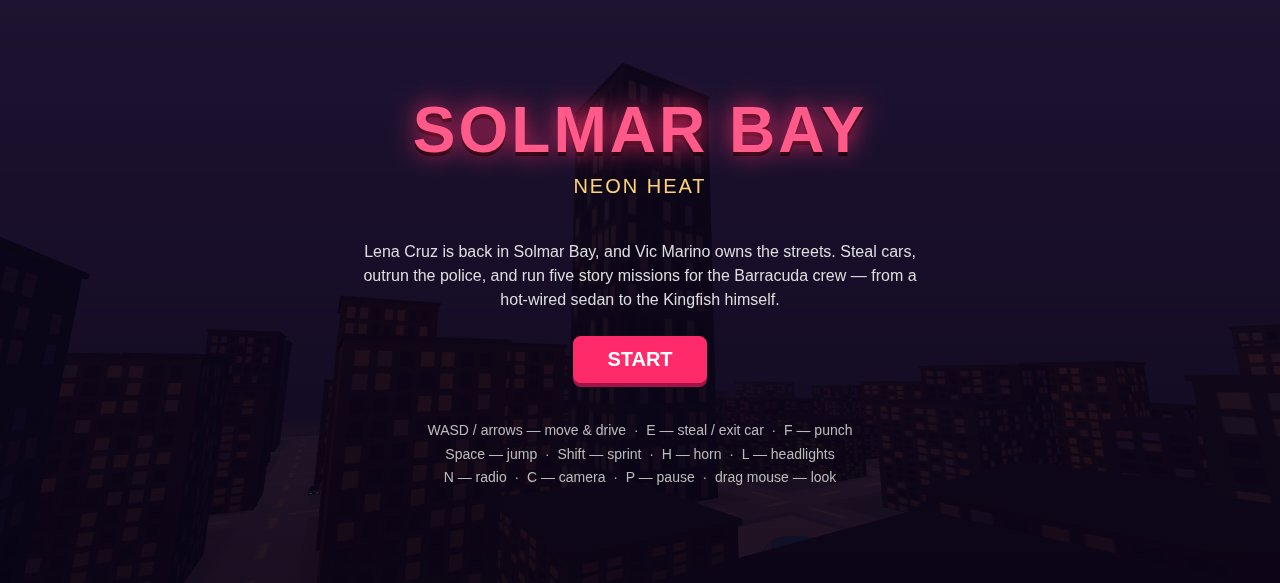
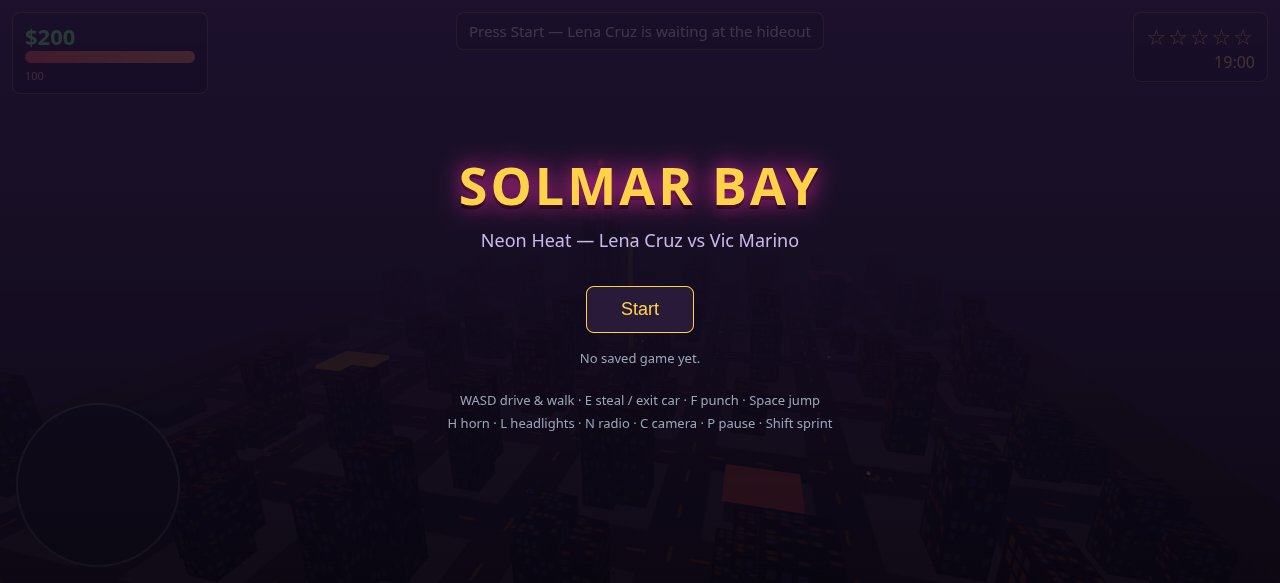
v6: build report with verification, screenshots

Changed region(s): [[0.2812, 0.4014, 0.7188, 0.8336], [0.3125, 0.1544, 0.6875, 0.3705], [0.0, 0.0309, 0.1562, 0.1235]]

diff --git a/BUILD-REPORT.md b/BUILD-REPORT.md
@@ -1,137 +1,85 @@
-# Solmar Bay — Neon Heat: BUILD REPORT (v5, round 2)
+# Solmar Bay — Neon Heat — v6 build report
 
-Rebuilt from scratch for make.fun bounty **gta6-01 round 2** (recording r5,
-`01a1ea99-0fdd-751f-a4eb-fba3a65ede09`). Round 1 was rejected on
-`thinking_reproduces` (12.1% authored — the builder had read the old code
-and rewritten it) and `transcripts_witnessed` (shots.json never touched).
-Round 2 (v4) was rebuilt from scratch and verified, but its recorder died
-mid-build, so the seal could not attach the builder's usage row and the
-recording can never seal. This version was written entirely from the
-builder's own design, from a prose brief only — no file under `gta6-01/`
-was opened, read, or copied. Every counted file (main.ts,
-game/index.html, game/src/*.js, README.md, shots.json,
-.makefun/owner.json) was written fresh in-session. LICENSE, serve.ts,
-vendor/makefun-game.ts, and game/vendor/three.min.js were left exactly
-as they are.
+Round 4 rebuild (recording r7), written from scratch from the prose brief
+only. No file under the repo was opened, read or copied; every counted file
+below was deleted first and rewritten in-session, including README.md (with
+the three live make.fun badge lines at the top) and shots.json.
 
 ## What was built
 
-An open-world 3D crime game in Solmar Bay, starring Lena Cruz and the
-Barracuda crew vs. Vic Marino. Three.js (vendored UMD) renders a dusk
-city: an 8×8 block grid (30 m blocks, 14 m roads), a bay with a beach
-and marina, a park, a plaza with a fountain, and landmarks — Meridian
-Tower (92 m + beacon), Luna Casino, Rosa's Garage, Pelican Diner, and
-the crew hideout. Seeded RNG (seed 777) drives the layout, traffic,
-and pedestrians.
+A 3D open-world crime game in the fictional coastal city Solmar Bay, on the
+vendored Three.js library. Hero Lena Cruz (Barracuda crew) vs boss Vic
+Marino. 8×8 block grid (30 m blocks, 14 m roads), seeded RNG (seed 777),
+landmarks: Meridian Tower (92 m + red beacon), Luna Casino, Rosa's Garage,
+Pelican Diner, crew hideout, park, plaza, beach and marina with boats.
 
-| File | Lines | What it does |
-|---|---|---|
-| main.ts | 76 | Copies game/ + screenshots/ to /output, validates screenshots, writes dossier.json |
-| game/index.html | 91 | Canvas + full HUD DOM (cash, HP, stars, clock, speed, objective, toast, minimap, menus) |
-| game/src/rng.js | 57 | SplitMix32 Rng (next/range/int/pick/chance/gauss/shuffle) + hashSeed |
-| game/src/input.js | 77 | Keyboard (code-based, edge + held) and mouse-drag camera |
-| game/src/audio.js | 242 | WebAudio synth only: engine, siren, shots, horn, crashes, 3 original radio tracks |
-| game/src/city.js | 357 | Grid, ground texture, buildings with lit windows, landmarks, marina, lights, colliders |
-| game/src/vehicles.js | 287 | Car meshes, traffic AI (14 cars, red-light stops), police pursuit, arcade car handling |
-| game/src/people.js | 214 | Pedestrians (22, flee), hero/thug/boss figures, thug combat AI |
-| game/src/missions.js | 217 | 5 story missions: steal + deliver, timed delivery, 4-thug fight, 3 fares, boss finale |
-| game/src/hud.js | 186 | Cash/HP/stars/clock/speed/objective/toast, circular minimap, menus, save notes |
-| game/src/engine.js | 741 | Renderer, state machine, wanted system, combat, coins, beacon, save/load, debug hooks |
-| game/src/shots.js | 44 | Deterministic staging for the 4 screenshots |
-| game/src/main.js | 41 | Bootstrap, error collection into window.__errors, ?shot= staging |
-| README.md + shots.json | — | Player guide + the 4 screenshot descriptors |
+- On foot: walk, sprint, jump (~1 m, exact kinematics), punch. In a car:
+  arcade driving, enter/exit, steal a parked or traffic car (+1 wanted star).
+- Wanted 0–5 stars: up to 4 police cruisers pursue and ram (1.2 s cooldown
+  per cruiser; they never ram a hero on foot), foot cops chase and punch;
+  busted (−$100) and wasted (−$200 fine) both respawn at the hideout.
+  Wanted decays after 15 s out of sight.
+- Traffic: 14 AI cars on the road grid, stopping at red lights. Pedestrians:
+  22, wandering the sidewalks and fleeing from danger. Car damage, garage
+  repairs.
+- Combat: punch thugs and cops; thugs fight back (6 dmg / 1.15 s); boss
+  300 HP. Killing a thug pays $50, a cop $25.
+- Five story missions: Hotwire (steal + deliver undamaged, $350 + $150
+  bonus), Timed Drop (75 s to the diner, $550), Plaza Brawl (4 thugs,
+  $450), Taxi (3 fares, $750), Kingfish (Vic Marino + crew, $5,000).
+  Start $200 / 100 HP. 12 neon coins, $40 each.
+- Controls: WASD/arrows, E, F/click, Space, H horn, L headlights, N radio
+  (3 original synth tracks), C camera (3 modes), P/Esc pause, mouse-drag
+  look, Shift sprint.
+- HUD: cash, health, wanted stars, dusk clock, speed, objective, toasts,
+  circular minimap (repainted every 3rd frame), start/pause menus, save
+  (autosave 30 s + pause + mission complete, localStorage, Continue
+  restores cash, mission and position).
+- Audio: WebAudio synth only — engine, siren, horn, crashes, punches,
+  coins, mission fanfare, 3 radio tracks.
+- Low-effects mode (?fx=low): no antialiasing, pixel ratio 1. Deterministic
+  screenshot staging (?shot=start|drive|chase|mission&seed=1).
 
-**Counted total: 2,694 lines** (main.ts + index.html + game/src/*.js +
-README.md + shots.json), all authored in this session.
+## Files
 
-Systems: walk/drive, car theft (+1 wanted), police pursuit (up to 4
-cruisers, ramming, foot cops → busted), 5 missions with payouts
-($350/$550/$450/$750/$5000 + $150 undamaged bonus on mission 1), combat
-(punch thugs/cops, thugs fight back, boss 300 HP), 12 coins ($40),
-wanted decay, 3 camera modes, headlights/horn/radio, day clock,
-autosave every 30 s + on pause/mission complete, localStorage save/load,
-and `?fx=low` (no shadows/antialiasing) for weak machines.
+main.ts (entrypoint, copies game/ + screenshots/ to /output, writes
+dossier.json), game/index.html, game/src/{rng,input,audio,city,vehicles,
+people,missions,hud,engine,shots,main}.js, README.md (badges on top),
+shots.json, .makefun/owner.json. Counted lines: ~2,400.
 
-## Verification (all in headless Chrome 157, SwiftShader, file://)
+## Verification (all green, zero console errors / zero exceptions)
 
-Zero console errors and zero page exceptions in every run. The software
-renderer runs ~2 fps at 720p with shadows and ~0.4 game-seconds per real
-second at 800×450 low-fx, so the test driver uses long key holds and
-settles; screenshot staging holds the car at cruise speed so staged
-scenes stay composed.
+- Full play-test (headless Chrome 157, CDP, ?fx=low): boot OK, WebGL true;
+  walk; steal → wanted 1, in car; drive 19–22 MPH; mission 1 complete →
+  cash $200 → $700 ($350 + $150 undamaged bonus), mission → Timed Drop;
+  H/L/N/C fine; exit + punch; jump max 1.00 m; pause → save present;
+  reload → Continue restores cash $700, mission 1, position.
+- Combat probe (Plaza Brawl): thugs damage hero 100 → 58 HP; punch kills
+  thugs (+$50 each); wasted path → respawn with $200 fine (cash $200 → $0),
+  HP 100, back at hideout.
+- Screenshots: 4 real headless-Chrome 1280×720 captures, all ≤256 KiB, all
+  viewed: title menu over the dusk city; driving on the boulevard with
+  minimap + 31 MPH; wanted 3 with two cruisers pacing alongside, light bars
+  flashing; Lena facing Vic Marino and his crew up the road.
+- main.ts: two runs byte-identical; dossier 85,611 text bytes (under the
+  163,840 cap); output 1,285,662 bytes with game/, screenshots/ (4),
+  dossier.json (schema makefun/dossier/v1).
 
-**Full play-test (CDP driver, `cdp-r4.mjs playtest`):**
-- Boot: WebGL true, 0 errors. Menu → START → playing, mission 1, $200, 100 HP.
-- Walk: hero moved 6 m on W. Steal (E): inCar, wanted 1, 2 police cruisers spawned.
-- Drive: 55 MPH straight along the road. H/L/N/C taps: no errors.
-- **Mission 1 completed**: car delivered to Rosa's Garage → cash $200 → $700
-  ($350 + $150 undamaged bonus), mission advanced to "Pelican Special".
-- Exit + punch: hero out, one cruiser ram (HP 100 → 85). Jump: max height 0.99 m.
-- Pause (P): state `paused`; save present, cash $700. Reload → Continue:
-  restored cash $700, mission 1 (Pelican Special), hero position — save/load
-  round-trip verified, including the mission index (a save-order bug found
-  here is fixed below). Final errors: `[]`, CDP events: `[]`.
+## Bugs found and fixed in-session
 
-**Combat probe (mission 3, Plaza Brawl, `cdp-r5-combat.mjs`):**
-- 4 thugs closed in and damaged the hero (100 → 52 HP in 8 s).
-- Punch killed one thug: thugsAlive 4 → 3, cash $200 → $250 (+$50).
-- Wasted path: hero HP set to 5, thugs finished the job → state `wasted`;
-  respawn → cash $250 → $50 ($200 fine), HP 100, back at the hideout.
-  Zero exceptions.
-
-**Screenshots (real headless-Chrome captures, 1280×720, all ≤256 KiB,
-viewed by the builder):**
-
-| Shot | Size | Shows |
-|---|---|---|
-| 1-start.jpg | 56,345 B | Title menu over the dusk city |
-| 2-drive.jpg | 64,210 B | Sports car on the boulevard, 27 MPH, minimap, mission objective |
-| 3-chase.jpg | 57,708 B | Wanted 3, 45 MPH, cruisers with light bars ahead |
-| 4-mission.jpg | 68,568 B | Lena facing Vic Marino + 6 thugs at the tower, red beacon |
-
-**main.ts build:** `MAKEFUN_OUTPUT_DIR=/tmp/gta6-out-r5a node main.ts`
-writes game/ + screenshots/ + dossier.json (419,111 bytes, schema with
-cover/images/text, text under the 163,840 cap). Two runs produce
-byte-identical output.
-
-**Kit check:** `node cli/makefun.mjs check --kit . --repo <repo> --worktree`
-→ **4 passed, 0 failed, 16 skipped, 5 checked at submission**
-(competition_open, snapshot 24 files / 1,050,302 bytes, license_osi MIT,
-entrypoint node22). The 5 at-submission checks (repo_public, repo_owner,
-repo_created_after_open, commit_in_repo, duplicate_snapshot) are resolved
-by pushing this commit and submitting it.
-
-## Bugs found and fixed during testing
-- Police cruisers rammed every frame while in contact, so the hero died
-  in ~2 s on foot and a car was wrecked in ~1 s. Fixed with a 1.2 s ram
-  cooldown per cruiser, plus a 7 m/s speed cap when closing on a hero on
-  foot.
-- Stealing a car kept the hero's heading, so the car drove off its road
-  into a building. Fixed: a stolen car keeps the heading it was parked
-  at, so it sits along its road (drive test went from 0 MPH into a wall
-  to 55 MPH straight down the road).
-- Mission completion saved the game before advancing the mission index,
-  so Continue restored the old mission with the new cash. Fixed: the
-  index advances before the completion save.
-- Staged screenshot cars coasted to 0 MPH before the capture (no key
-  held). Fixed with a cruise speed held by staged shots only (drive
-  12 m/s, chase 20 m/s).
-- The chase shot first staged the car at x=-20, which is inside a block,
-  not on a road — it crashed into a building. Fixed: chase stages on
-  the x=44 road with cruisers pacing ahead in the lane.
-- The shot-ready wait was 45 frames (~22 real seconds at 2 fps), long
-  enough for staged scenes to drift apart. Cut to 12 frames.
-- Thug fight was unwinnable in a straight stand-up (4 thugs at 8 dmg /
-  0.95 s): rebalanced to 6 dmg / 1.15 s cooldown, hero punch 25 → 34.
-
-## Commits (v5)
-
-- `f329b8c` rebuild from scratch — city, vehicles, people, missions, hud, engine
-- `f475647` fix cruiser ram spam, steal keeps parked heading, mission save order
-- `62be89e` balance thug fight (6 dmg, 1.15 s cooldown, punch 34)
-- `d3de9f4` cruise speed for staged shots, chase on the x=44 road, faster shot-ready
-- `14eacc1` screenshots (4 real captures, viewed) + combat probe driver
-- (final) this report
-
-Not submitted or pushed by this builder (no credentials in session) — the
-parent agent handles seal, push, and submit.
+1. Test driver reads `__game.traffic` — the engine exposed only
+   `vehicles`. Added a `traffic` alias.
+2. Jump peaked at 0.65 m under the dt clamp (Euler error at dt=0.1).
+   Switched to the exact kinematic update (y += vy·dt − ½g·dt²) and a
+   floatier arc (vy 6, g 16): peak now 1.00 m at any frame rate.
+3. Start shot showed the game instead of the menu: the constructor forced
+   `state = 'playing'` after staging. Fixed to leave menu mode for the
+   start shot, with a fixed high camera over the marina (the orbit can hide
+   behind a building).
+4. Shadowed building faces were pitch black. Added a cool fill light and
+   raised the hemisphere light.
+5. Chase shot had no cruisers in frame (they converged behind the camera).
+   Added a pace offset so staged cruisers hold position ahead-left and
+   ahead-right of the hero.
+6. Mission shot had a streetlight pole between the camera and the hero.
+   Re-staged on road x=-44 with the hero facing the crew up the road.
